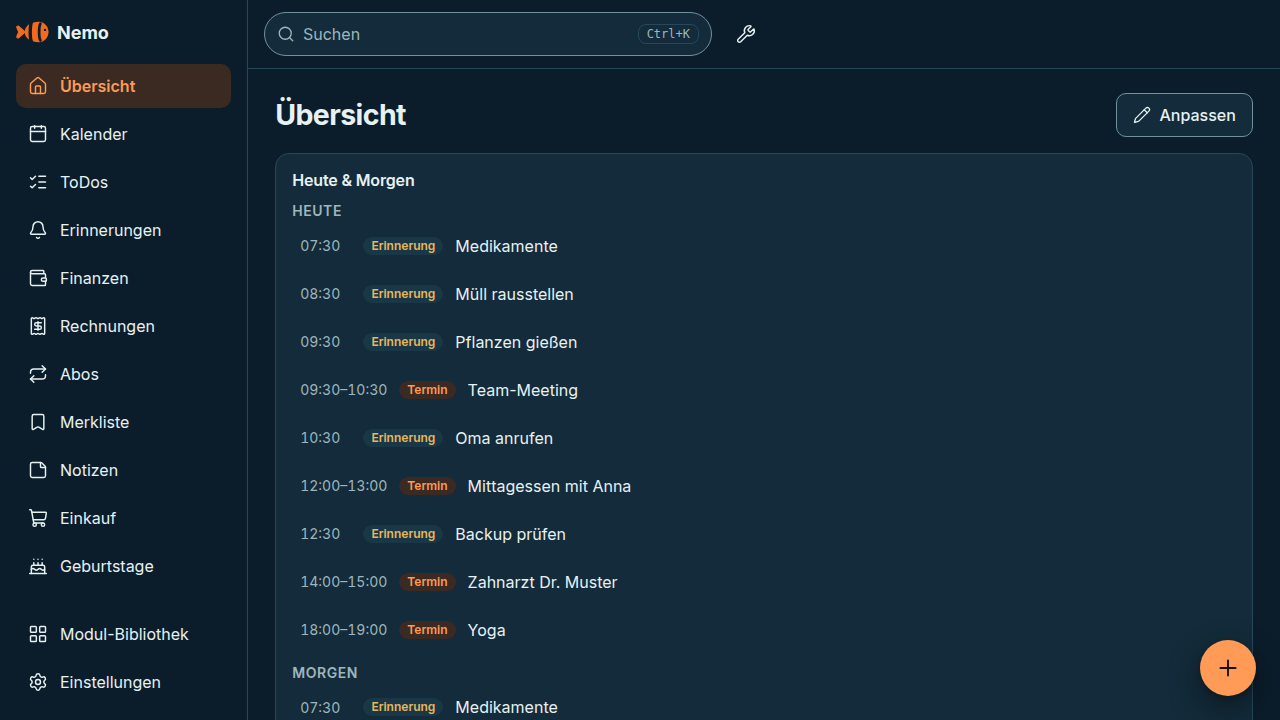
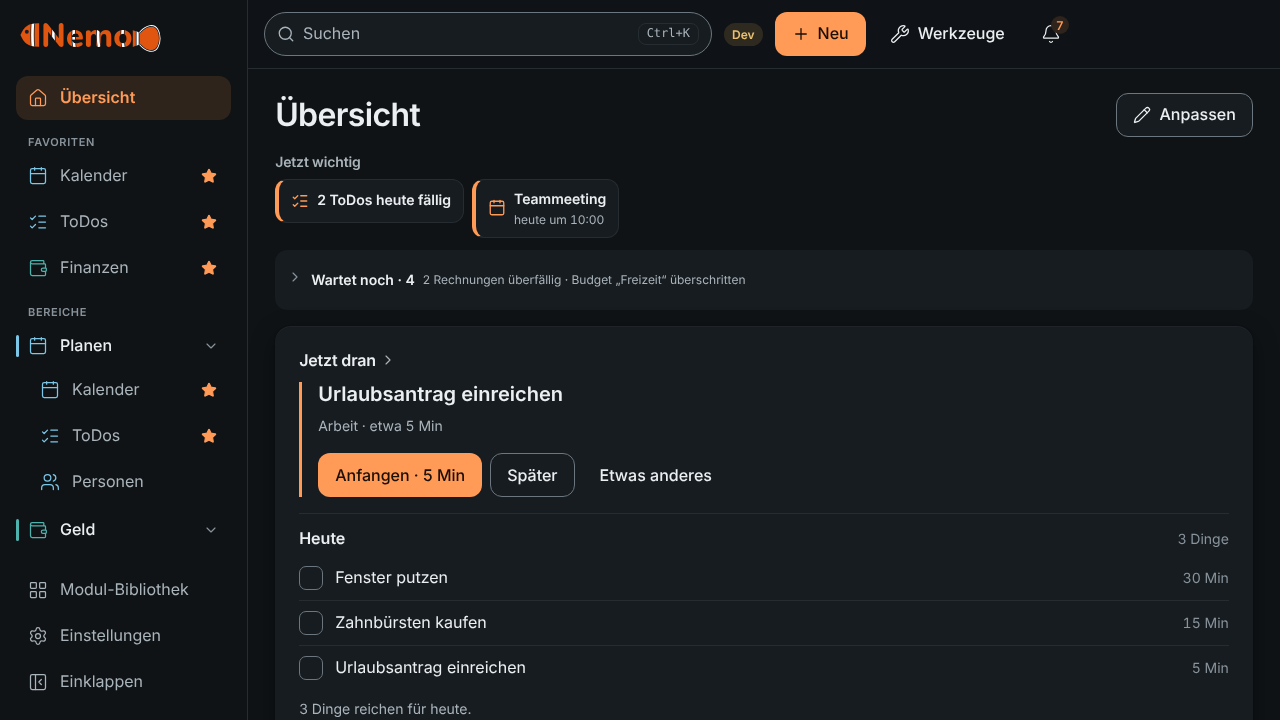
fix(site): robots.txt with absolute sitemap, button contrast, seed screenshots
Lighthouse flagged the relative sitemap URL and the 85 % opacity of the
button sub line (contrast). robots.txt is now generated from SITE_URL;
the overview screenshots come from the Dev-Preview build with seed
"medium" (light and dark). Fixes the grep matcher in site.yml.

Claude-Session: https://claude.ai/code/session_018FS1oecKFgp2TKVsQ4RnRr

diff --git a/site/src/pages/robots.txt.ts b/site/src/pages/robots.txt.ts
@@ -1,0 +1,8 @@
+import type { APIRoute } from 'astro';
+import { SITE_URL } from '../config.js';
+
+// robots.txt needs an absolute sitemap URL, so it is generated from SITE_URL at build time.
+export const GET: APIRoute = () =>
+  new Response(`User-agent: *\nAllow: /\n\nSitemap: ${new URL('/sitemap-index.xml', SITE_URL).toString()}\n`, {
+    headers: { 'content-type': 'text/plain; charset=utf-8' },
+  });

diff --git a/site/src/styles/global.css b/site/src/styles/global.css
@@ -196,7 +196,6 @@ button {
   display: block;
   font-size: var(--text-sm);
   font-weight: var(--weight-medium);
-  opacity: 0.85;
   margin-top: 0.125rem;
   font-variant-numeric: var(--font-num);
 }

diff --git a/site/README.md b/site/README.md
@@ -32,9 +32,9 @@ src/i18n/{de,en}.ts    all page texts; src/i18n/index.ts = route table
 src/release/latest.json  last known release (updated by the build, committed as fallback)
 src/layouts/Base.astro head, meta, OG, hreflang, header, footer · Legal.astro for the legal pages
 src/components/        Hero, Features, Why, Install, Support, Header, Footer, Icon (inline Lucide)
-src/pages/             index, impressum, datenschutz, 404 · en/index, en/imprint, en/privacy
+src/pages/             index, impressum, datenschutz, 404, robots.txt.ts · en/index, en/imprint, en/privacy
 src/assets/screens/    overview-{dark,light}.png (app with seed "medium"; Astro makes AVIF/WebP)
-public/                robots.txt, .well-known/security.txt, _headers, theme.js
+public/                .well-known/security.txt, _headers, theme.js
 scripts/               fetch-release, copy-brand, check-links, check-downloads, lighthouse,
                        screenshots, *.test.mjs
 ```
